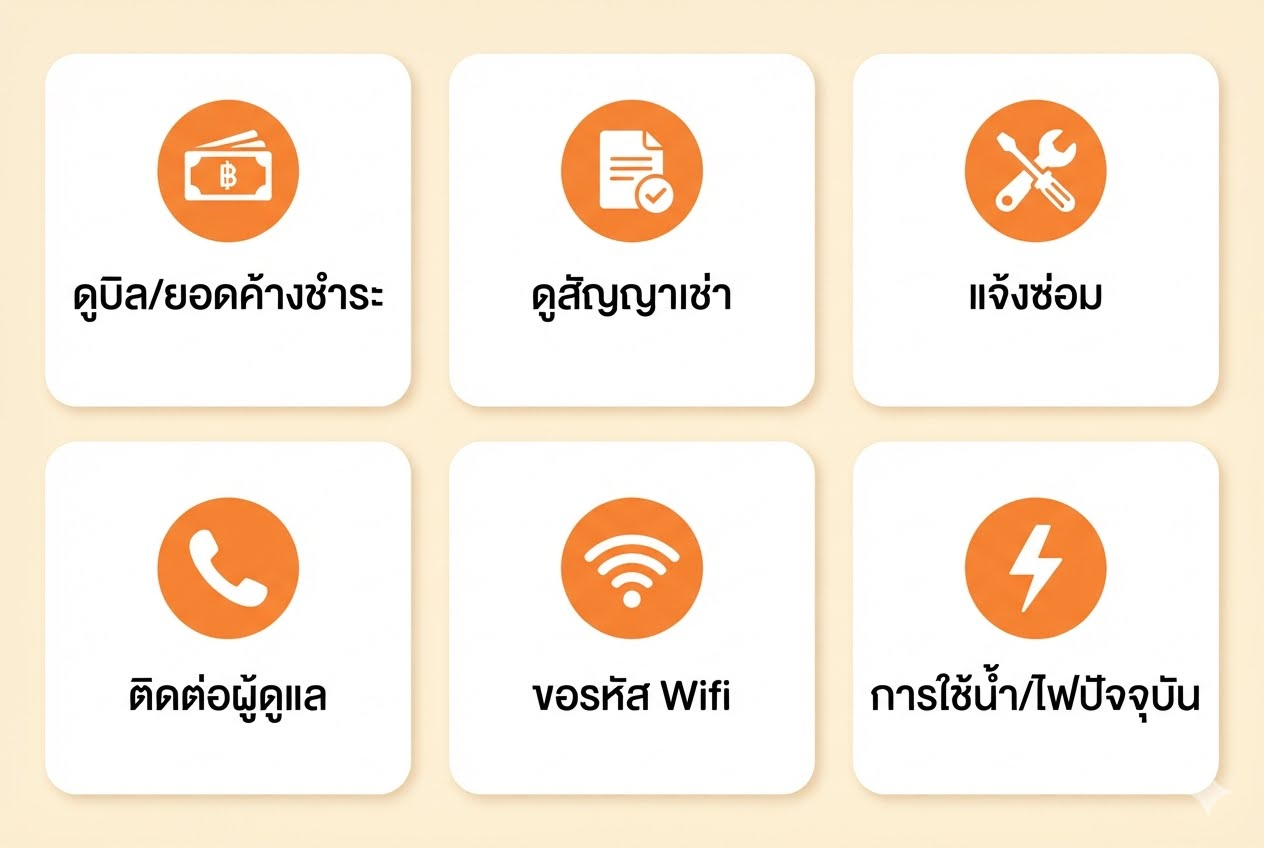
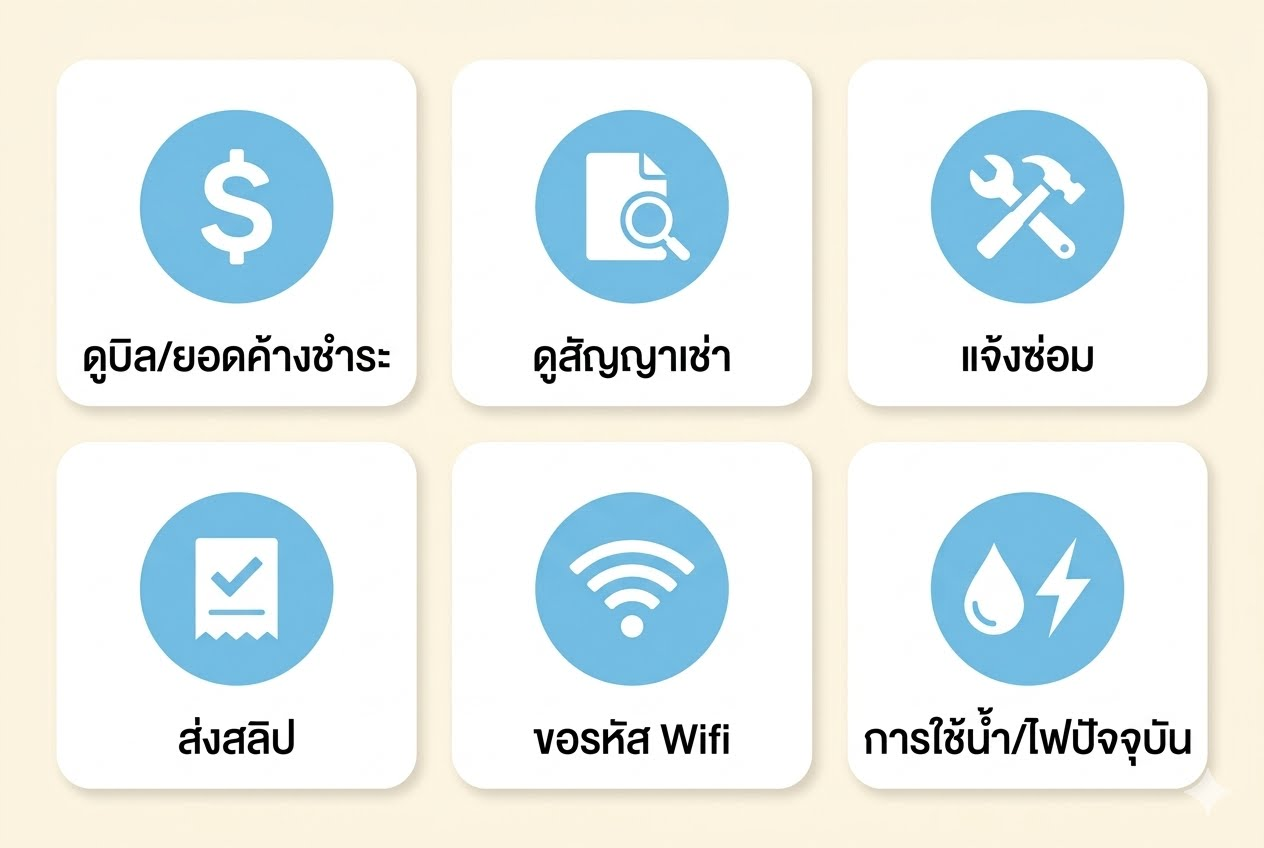
Update tenant Rich Menu image (ติดต่อผู้ดูแล → ส่งสลิป) + drop temp alias
Per owner's own edited design (blue color scheme this time, to make the
tenant menu visually distinct from the orange owner/staff ones — saved
as images/ดาวน์โหลด.jpg, converted to images/tenant-richmenu.png, source
file removed after use). New icon (attach_file/"clip") + "ส่งสลิป" label
in place of the old phone-handset "ติดต่อผู้ดูแล".

Regenerated the real tenant Rich Menu on the live LINE OA and re-linked
all 5 already-linked tenants directly (new prototype-auth/relink-tenant-
richmenu.js, same idea as relink-owner-richmenu.js but iterates every
Rooms row with an existing lineUserId) — no unfollow/re-follow needed.

Removed the temporary 'action=contact' postback alias in
server/routes/line.js now that the new image (with the real 'action=slip'
button baked in) is live — no longer needed.

diff --git a/prototype-auth/relink-tenant-richmenu.js b/prototype-auth/relink-tenant-richmenu.js
@@ -1,0 +1,63 @@
+// One-off: re-links every ALREADY-linked tenant (any Rooms row with a
+// lineUserId already on file) to the current tenant Rich Menu
+// (tenantRichMenuId), WITHOUT requiring them to unfollow/re-follow the
+// LINE OA or re-type their phone number. Used right after setup-tenant-
+// richmenu.js regenerates the menu image (e.g. a button label/design
+// change) — otherwise an already-linked tenant keeps seeing the OLD
+// menu until they happen to re-link some other way. Same one-shot
+// utility pattern as relink-owner-richmenu.js.
+//
+// Usage: node prototype-auth/relink-tenant-richmenu.js [customerSheetId]
+const path = require('path');
+const SERVER_MODULES = path.join(__dirname, '..', 'server', 'node_modules');
+require(path.join(SERVER_MODULES, 'dotenv')).config({ path: path.join(__dirname, '..', 'server', '.env') });
+const { google } = require(path.join(SERVER_MODULES, 'googleapis'));
+const { isConfigured, linkRichMenuToUser } = require(path.join(__dirname, '..', 'server', 'line'));
+
+async function main() {
+  const spreadsheetId = process.argv[2] || process.env.GOOGLE_SHEET_ID;
+  const auth = new google.auth.JWT(
+    process.env.GOOGLE_SERVICE_ACCOUNT_EMAIL,
+    null,
+    process.env.GOOGLE_PRIVATE_KEY.replace(/\\n/g, '\n'),
+    ['https://www.googleapis.com/auth/spreadsheets']
+  );
+  const sheets = google.sheets({ version: 'v4', auth });
+
+  const settingsRes = await sheets.spreadsheets.values.get({ spreadsheetId, range: 'Settings!A2:B1000' });
+  const map = {};
+  (settingsRes.data.values || []).forEach(([k, v]) => { map[k] = v; });
+
+  const creds = (map.lineChannelAccessToken || map.lineChannelSecret)
+    ? { accessToken: map.lineChannelAccessToken || '', channelSecret: map.lineChannelSecret || '' }
+    : null;
+  if (!isConfigured(creds)) { console.error('No LINE credentials found.'); process.exit(1); }
+
+  const richMenuId = map.tenantRichMenuId;
+  if (!richMenuId) { console.error('Missing tenantRichMenuId in Settings — run setup-tenant-richmenu.js first.'); process.exit(1); }
+
+  const roomsRes = await sheets.spreadsheets.values.get({ spreadsheetId, range: 'Rooms!A1:BZ1000' });
+  const [header, ...rows] = roomsRes.data.values || [];
+  const idCol = header.indexOf('id');
+  const lineUserIdCol = header.indexOf('lineUserId');
+  if (lineUserIdCol === -1) { console.log('Rooms tab has no lineUserId column — nothing to do.'); return; }
+
+  const linkedRooms = rows.filter((r) => r[lineUserIdCol]);
+  console.log(`Found ${linkedRooms.length} already-linked room(s). Re-linking each to ${richMenuId}...`);
+
+  let ok = 0, fail = 0;
+  for (const r of linkedRooms) {
+    const roomId = r[idCol];
+    const lineUserId = r[lineUserIdCol];
+    try {
+      await linkRichMenuToUser(lineUserId, richMenuId, creds);
+      ok++;
+    } catch (err) {
+      fail++;
+      console.warn(`  room ${roomId}: failed —`, err.message);
+    }
+  }
+  console.log(`Done. ${ok} re-linked, ${fail} failed.`);
+}
+
+main().catch((err) => { console.error('Failed:', err.message); process.exit(1); });

diff --git a/server/routes/line.js b/server/routes/line.js
@@ -791,17 +791,11 @@ async function handleTenantRichMenuPostback(event, lineCreds) {
     // see handleSlipImage above). Per CLAUDE.md's permanent rule, wording
     // is careful to say "อ่านให้/รอตรวจสอบ", never "ยืนยันแล้ว" — OCR
     // extraction only, the owner always confirms manually.
-    //
-    // 'action=contact' kept as a temporary ALIAS to the exact same reply
-    // — the live Rich Menu image on LINE right now still has its old
-    // button baked in with THIS postback data (rich menu button actions
-    // are immutable once created; only a whole new menu image+upload
-    // changes them). Until the owner sends an updated tenant-richmenu.png
-    // (new label) and prototype-auth/setup-tenant-richmenu.js gets
-    // re-run, tapping the still-visually-old button must not go silent —
-    // remove this alias once the new image is live.
+    // (The temporary 'action=contact' alias — kept while the Rich Menu
+    // image still showed the old label — was removed once the owner sent
+    // the updated tenant-richmenu.png design and setup-tenant-richmenu.js
+    // was re-run.)
     case 'action=slip':
-    case 'action=contact':
       await reply(`ส่งรูปสลิปโอนเงินมาในแชทนี้ได้เลยครับ (กดปุ่มแนบรูป 📎 ของ LINE ตามปกติ) ระบบจะอ่านยอด/วันที่ให้อัตโนมัติ แล้วรอผู้ดูแลตรวจสอบและยืนยันอีกครั้งครับ`);
       return;
     case 'action=wifi': {
